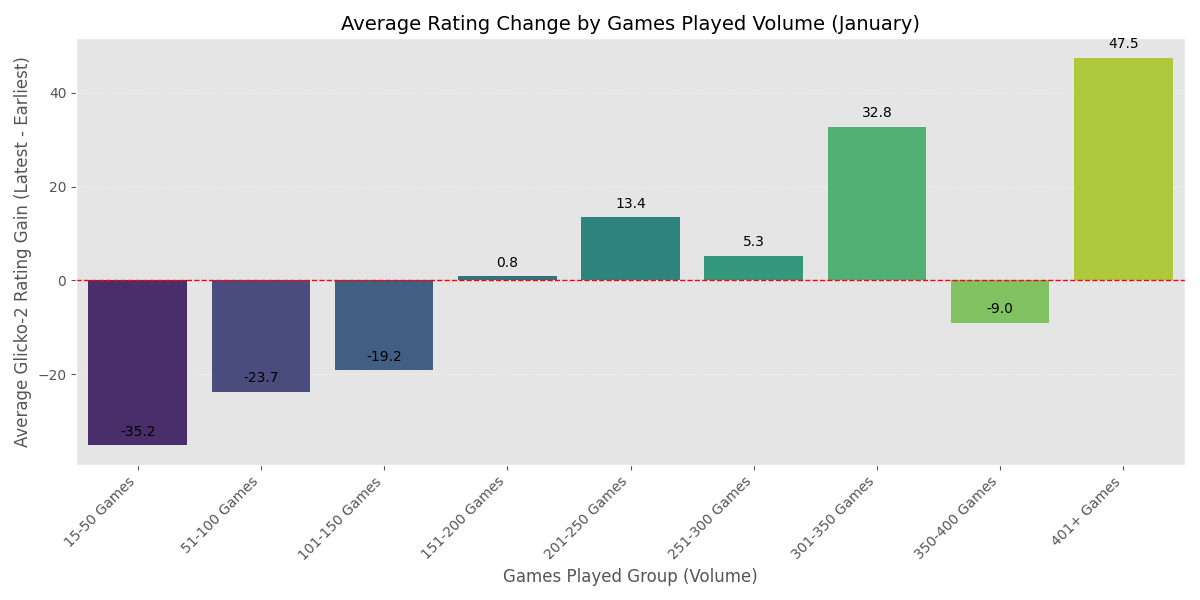
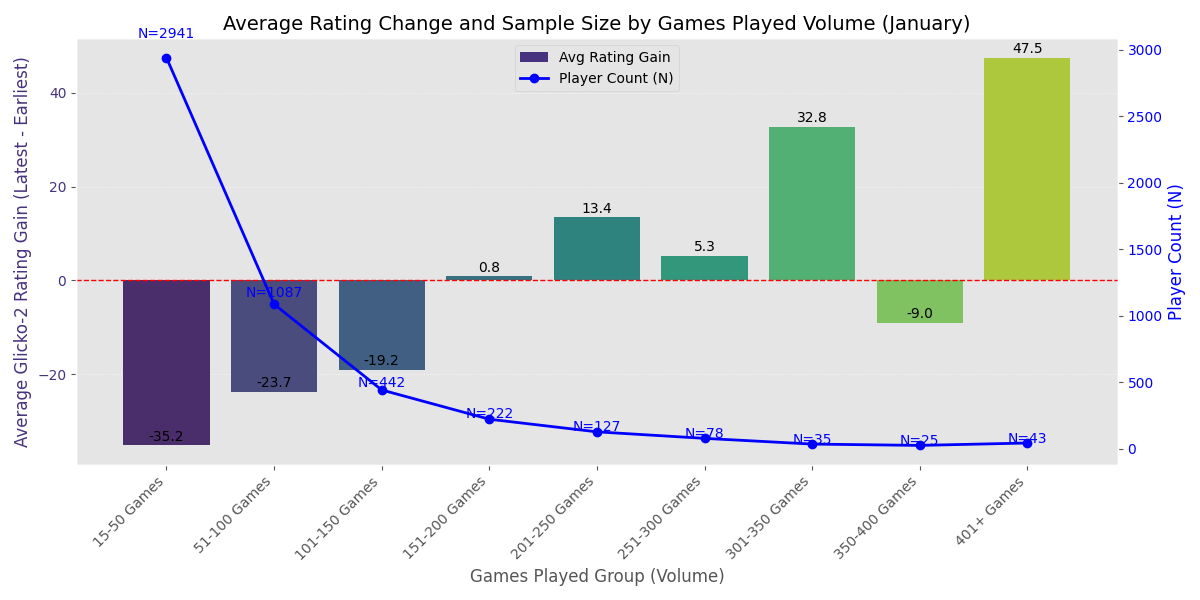
add dual axis to visualize player count by bin

diff --git a/analyze_and_visualize_correlation_games_vs_rating_change.py b/analyze_and_visualize_correlation_games_vs_rating_change.py
@@ -153,42 +153,87 @@ def run_correlation_analysis(df: pd.DataFrame):
     plt.close()
 
     # ----------------------------------------------------
-    # ANALYSIS METHOD 4: BAR PLOT OF GROUPED AVERAGES (NEW)
+    # ANALYSIS METHOD 4: BAR PLOT OF GROUPED AVERAGES (DUAL-AXIS)
     # ----------------------------------------------------
     
-    plt.figure(figsize=(12, 6))
-    # Use the grouped_analysis DataFrame created in METHOD 3
+    # Start a new figure and the primary axis (for Rating Gain bars)
+    fig, ax1 = plt.subplots(figsize=(12, 6))
+
+    # Bar plot for Average Rating Gain (Left Axis)
     sns.barplot(
         x='Games_Played_Group', 
         y='Average_Rating_Gain', 
         data=grouped_analysis,
-        palette='viridis' # A professional and distinct color palette
+        palette='viridis', 
+        ax=ax1,
+        # label='Avg Rating Gain' # Labels will be added using fig.legend
     )
+    
+    # Set labels for the primary axis
+    ax1.set_title('Average Rating Change and Sample Size by Games Played Volume (January)', fontsize=14)
+    ax1.set_xlabel('Games Played Group (Volume)')
+    ax1.set_ylabel('Average Glicko-2 Rating Gain (Latest - Earliest)', color=sns.color_palette('viridis')[0])
+    ax1.tick_params(axis='y', labelcolor=sns.color_palette('viridis')[0])
+    ax1.axhline(0, color='red', linestyle='--', linewidth=1) # Zero-gain line
+    ax1.grid(axis='y', linestyle=':', alpha=0.6)
+
+    # Rotate x-axis labels for readability
+    ax1.set_xticklabels(grouped_analysis['Games_Played_Group'], rotation=45, ha='right')
+
+    # Create a secondary axis for Player Count (Line plot, Right Axis)
+    ax2 = ax1.twinx() 
+    
+    # Line plot for Player Count (Right Axis)
+    line_plot = ax2.plot(
+        grouped_analysis['Games_Played_Group'], 
+        grouped_analysis['Player_Count'], 
+        color='blue', 
+        marker='o',
+        linewidth=2,
+        label='Player Count (N)'
+    )
+    
+    # Set labels for the secondary axis
+    ax2.set_ylabel('Player Count (N)', color='blue')
+    ax2.tick_params(axis='y', labelcolor='blue')
+    ax2.grid(False) # Turn off grid for the secondary axis to keep it clean
+
+    # Add count labels for the line markers (N)
+    for index, row in grouped_analysis.iterrows():
+        ax2.text(
+            index, 
+            row['Player_Count'] * 1.05, # Offset slightly above the marker
+            f"N={row['Player_Count']}", 
+            color='blue', 
+            ha="center"
+        )
     
     # Add labels for the average gain on top of the bars
     for index, row in grouped_analysis.iterrows():
-        plt.text(
+        # Dynamic offset based on the maximum y-limit for better positioning
+        offset = ax1.get_ylim()[1] * 0.02
+        y_pos = row['Average_Rating_Gain'] + offset
+        
+        ax1.text(
             index, 
-            row['Average_Rating_Gain'] + 2, # Offset slightly above the bar
+            y_pos, 
             f"{row['Average_Rating_Gain']:.1f}", 
             color='black', 
             ha="center"
         )
         
-    plt.title('Average Rating Change by Games Played Volume (January)', fontsize=14)
-    plt.xlabel('Games Played Group (Volume)')
-    plt.ylabel('Average Glicko-2 Rating Gain (Latest - Earliest)')
-    plt.xticks(rotation=45, ha='right')
-    plt.axhline(0, color='red', linestyle='--', linewidth=1) # Zero-gain line
-    plt.grid(axis='y', linestyle=':', alpha=0.6)
-    plt.tight_layout()
+    # Combine legends from both axes
+    bar_legend = [plt.Rectangle((0,0),1,1, fc=sns.color_palette('viridis')[0])]
+    ax1.legend(bar_legend + line_plot, ['Avg Rating Gain', 'Player Count (N)'], loc='upper center')
+    
+    fig.tight_layout() # Ensures everything fits
     
     try:
-        plt.savefig(OUTPUT_BIN_PLOT_PATH)
+        fig.savefig(OUTPUT_BIN_PLOT_PATH)
         print(f"✅ Grouped analysis visualization saved to: {OUTPUT_BIN_PLOT_PATH}")
     except Exception as e:
         print(f"Error saving grouped plot: {e}")
-    plt.close()
+    plt.close(fig)
 
 
 if __name__ == '__main__':
